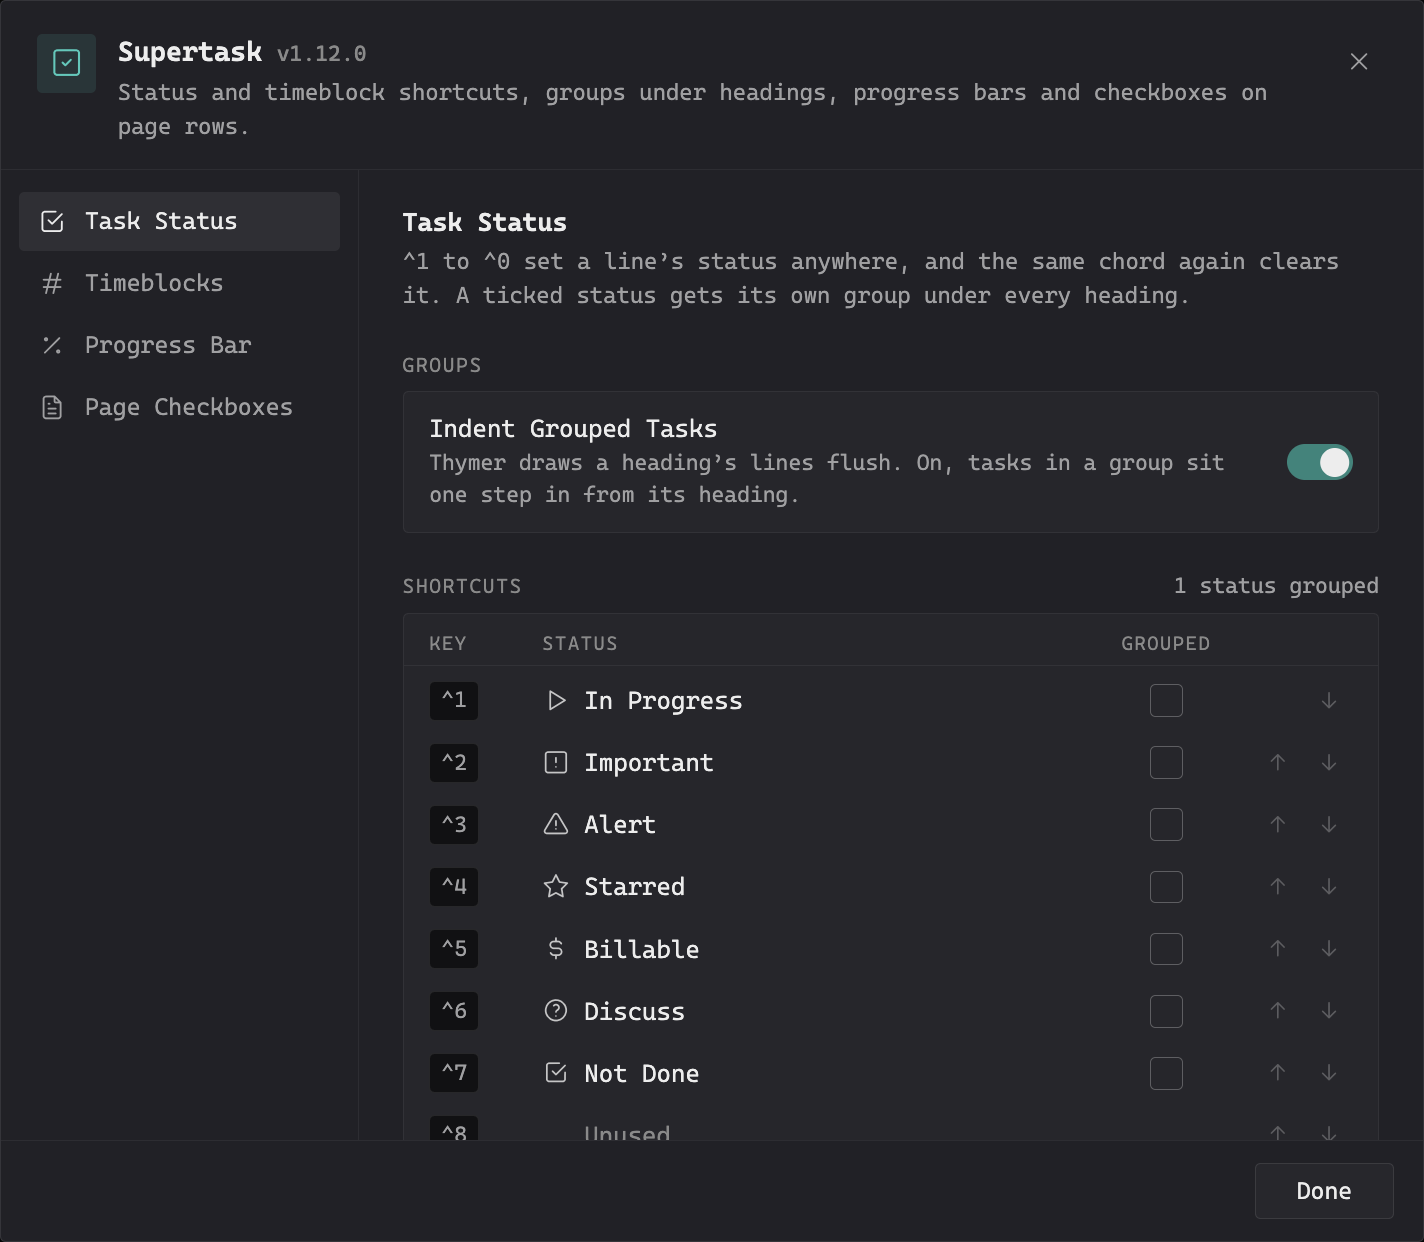
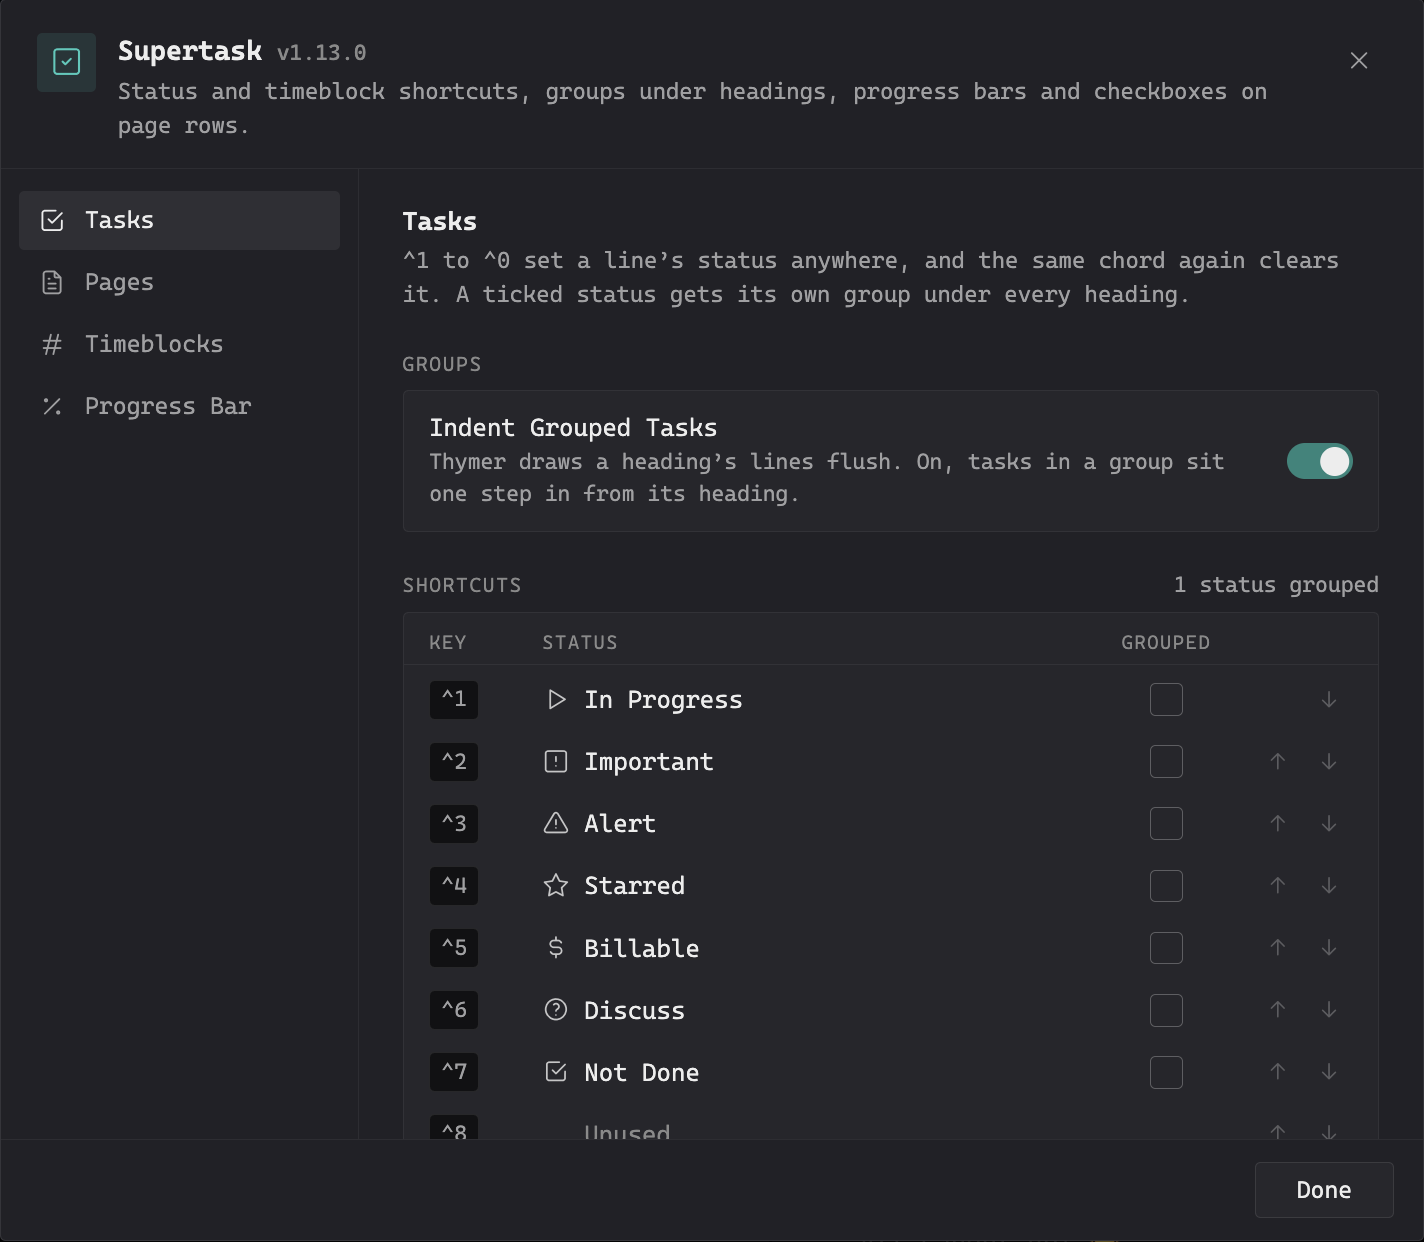
README: settings screenshots show the v1.13.0 tabs

diff --git a/README.md b/README.md
@@ -185,7 +185,7 @@ Wherever a bar shows in a document, the line's `⋯` menu is there too, so you c
 - **Timeblocks** defines your `⌘`-digit hashtags: the row is the key, and each row takes a name (shown on roofs and in menus) plus the hashtag that lands on the line. The hashtag field lists every tag in your workspace, so you can search for the right one.
 - **Progress Bar** holds the two global bar switches.
 
-![Settings, Task Status](assets/settings.png)
+![Settings, Tasks](assets/settings.png)
 
 ![Settings, Timeblocks](assets/timeblocks-settings.png)
 
